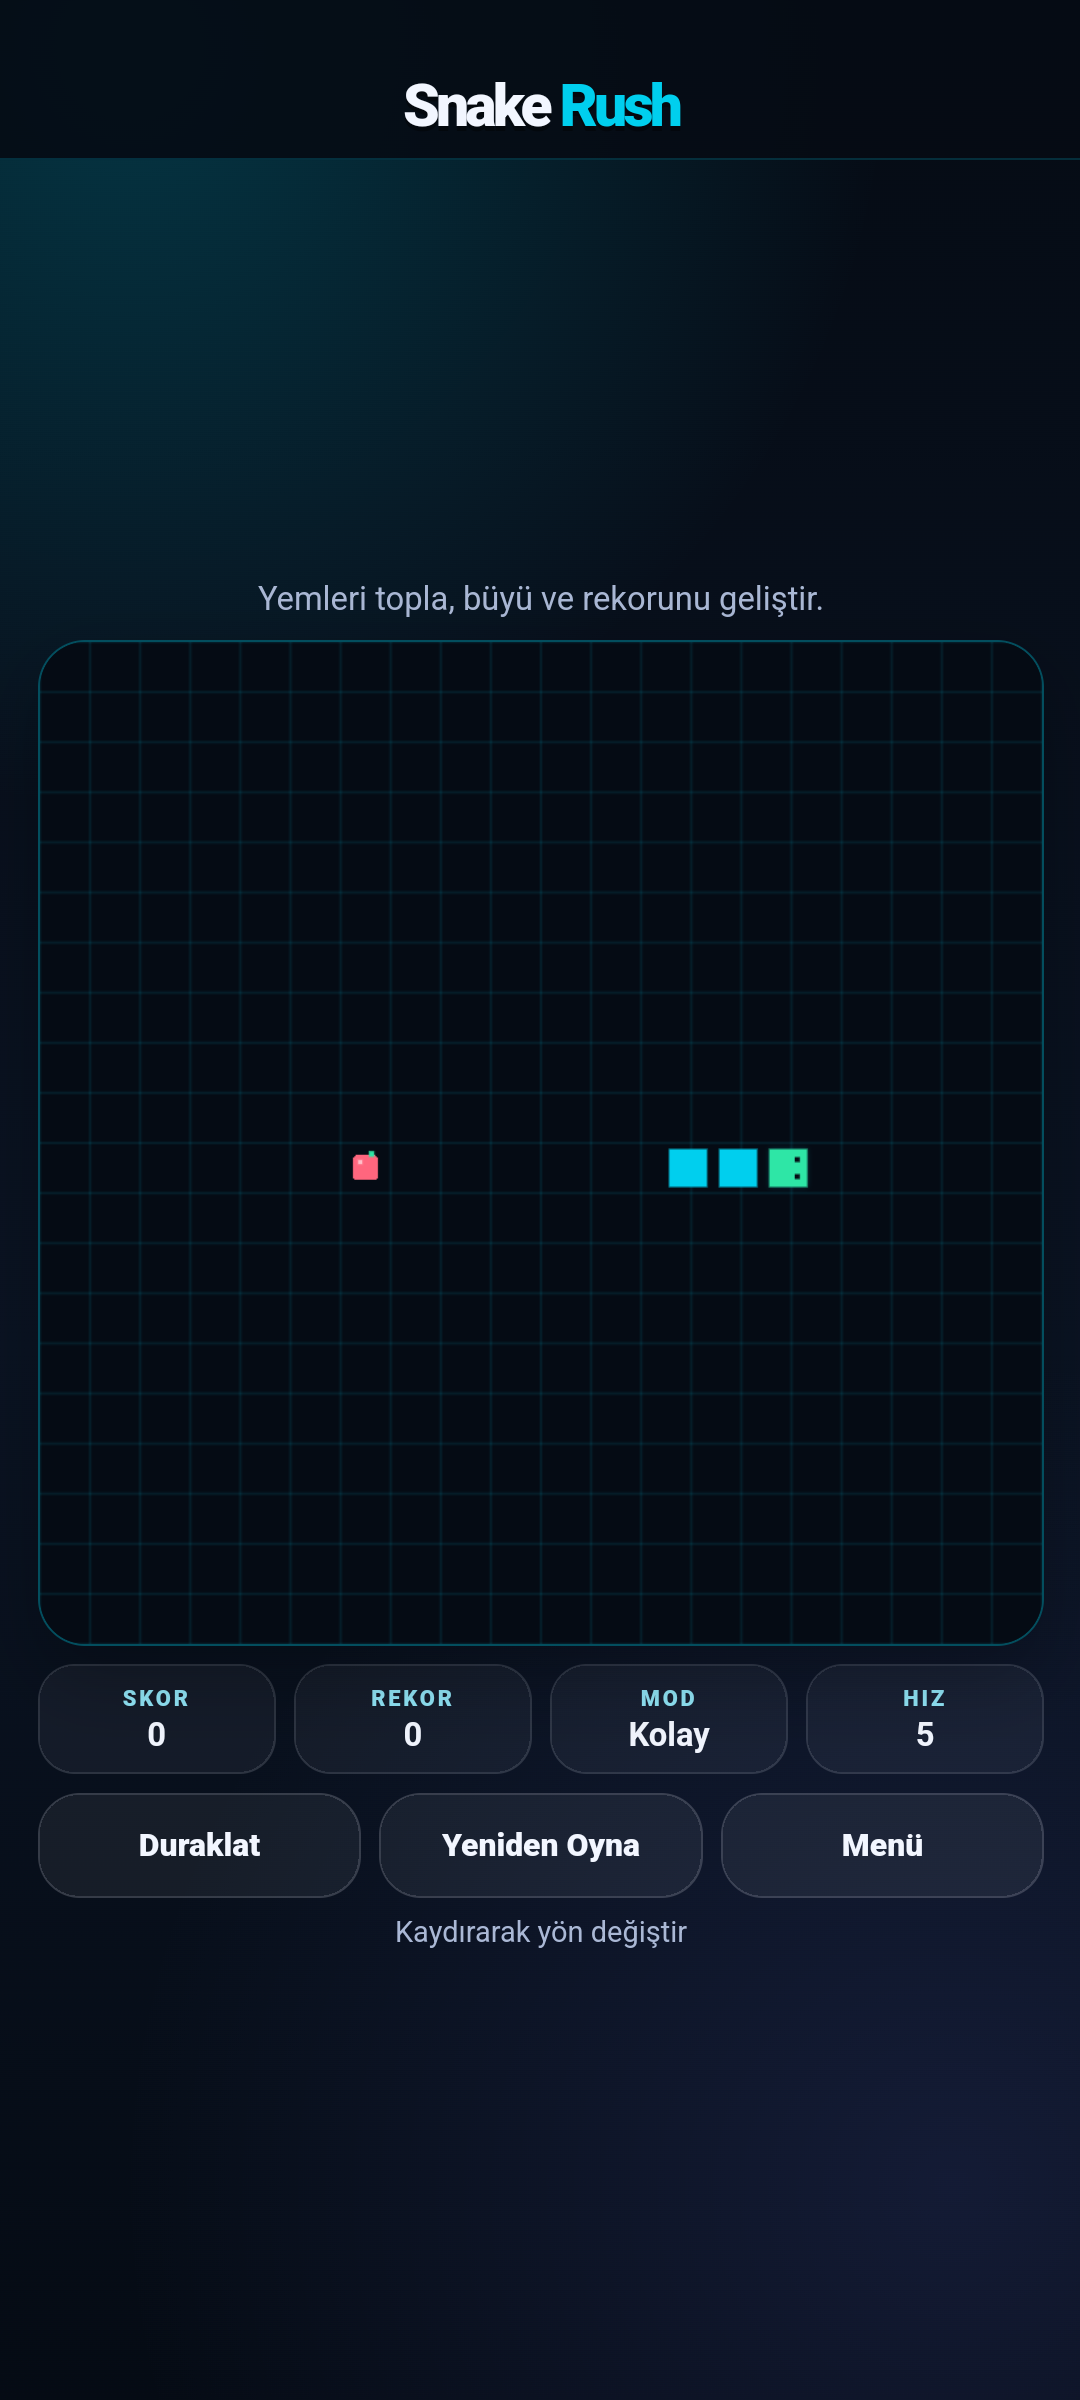
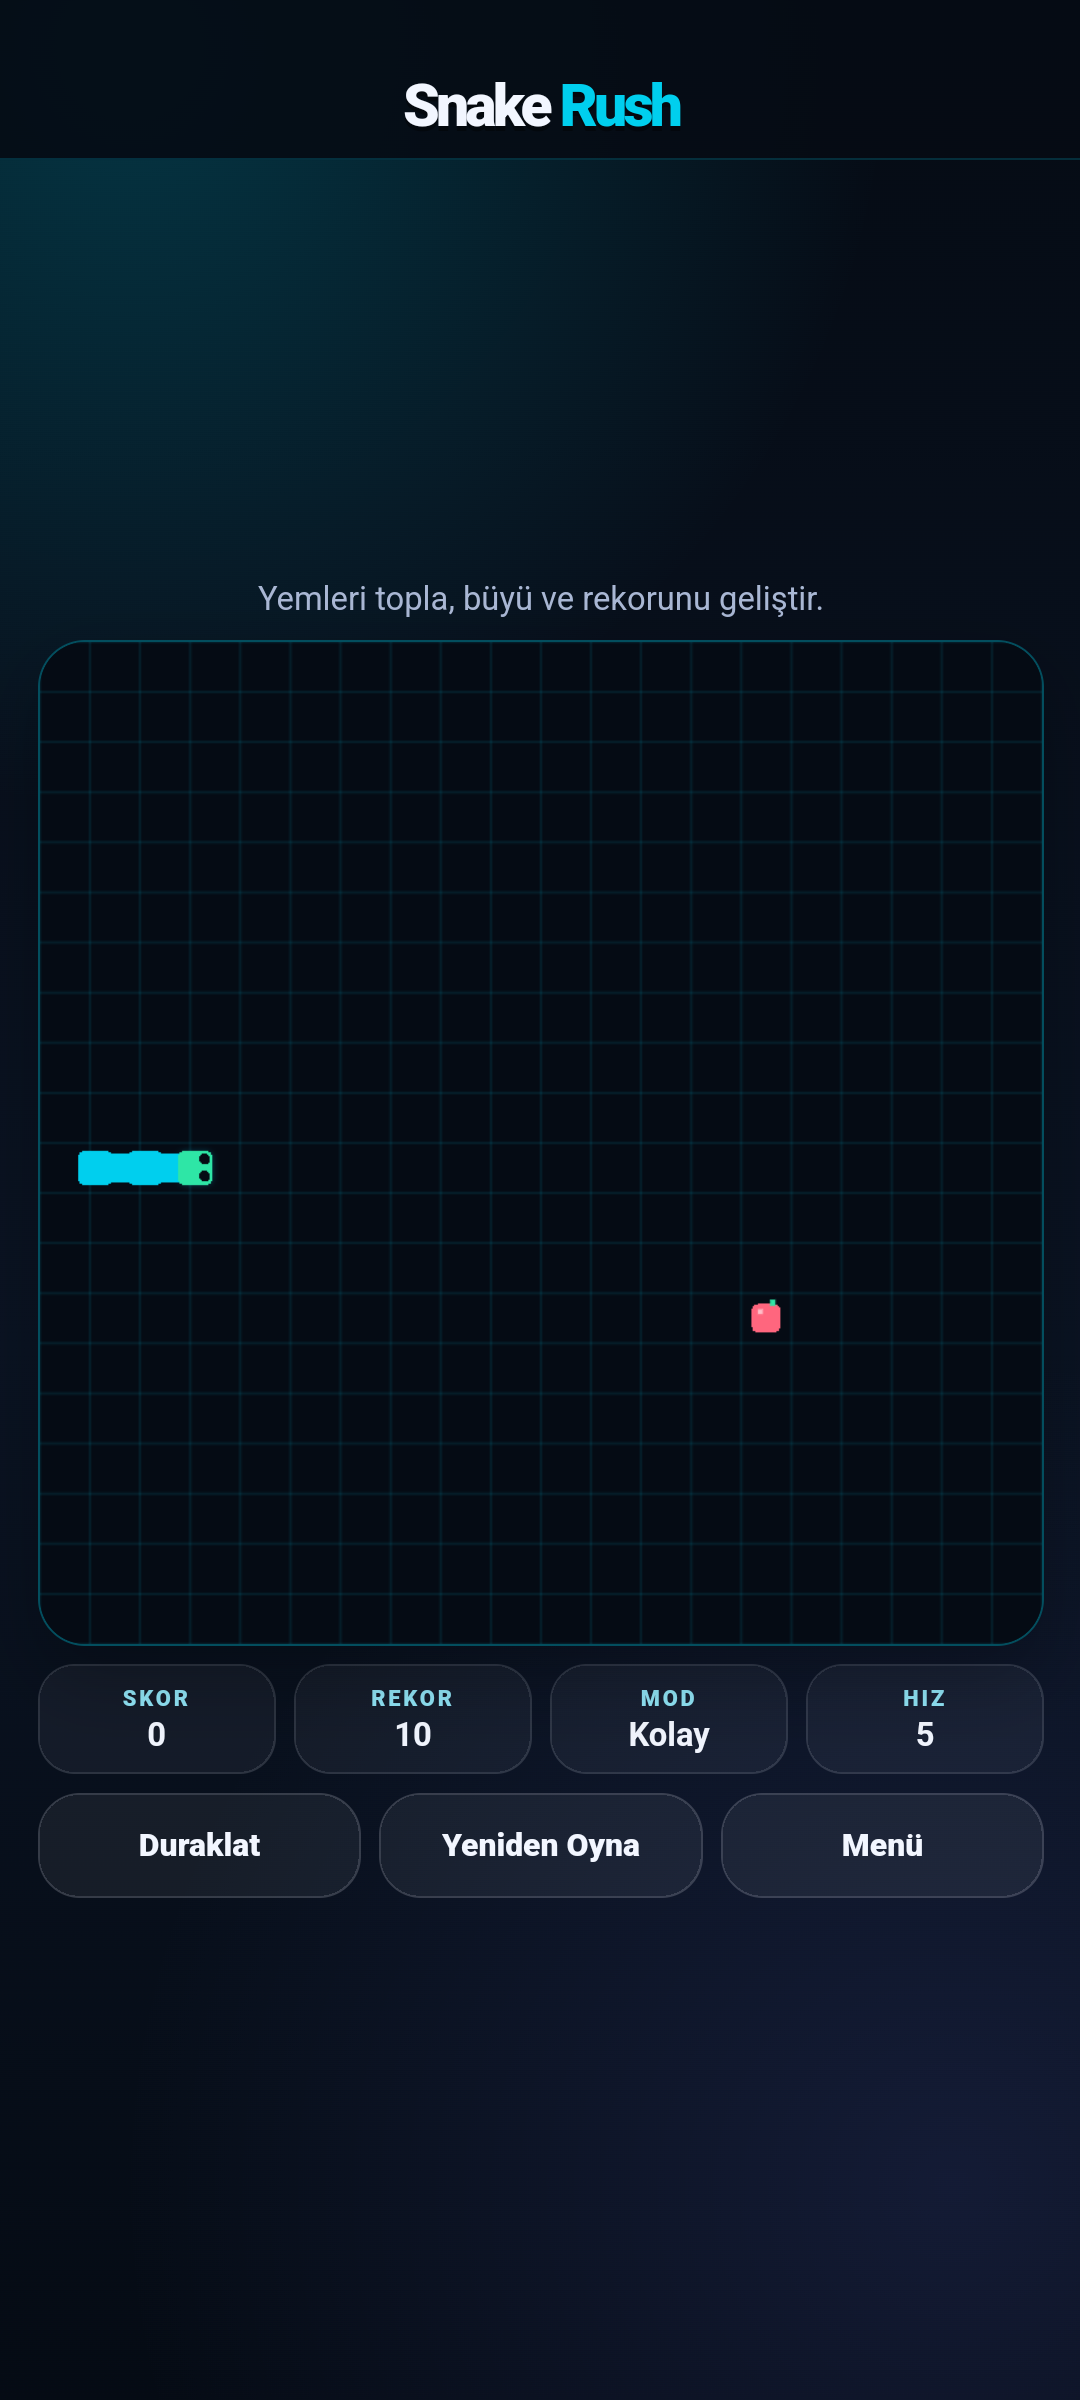
release: publish Snake Rush v1.0.1

diff --git a/android/app/src/main/assets/www/app.js b/android/app/src/main/assets/www/app.js
@@ -606,11 +606,39 @@
     ctx.fillRect(x + size * 0.2, y + size * 0.18, Math.max(1.5, size * 0.17), Math.max(1.5, size * 0.17));
   }
 
+  function unwrapNear(value, anchor, limit) {
+    let result = value;
+    if (mode === 'easy') {
+      if (result - anchor > limit / 2) result -= limit;
+      if (result - anchor < -limit / 2) result += limit;
+    }
+    return result;
+  }
+
   function drawSnake(alpha) {
     const visual = visualSnake(alpha);
     if (!visual.length) return;
-    ctx.imageSmoothingEnabled = false;
-    const segmentSize = Math.max(6, cell * 0.76);
+    const center = point => ({x: offsetX + (point.x + 0.5) * cell, y: offsetY + (point.y + 0.5) * cell});
+    ctx.lineCap = 'round';
+    ctx.lineJoin = 'round';
+    ctx.lineWidth = Math.max(5, cell * 0.58);
+    ctx.strokeStyle = canvasPalette.snake;
+    for (let index = 1; index < visual.length; index++) {
+      const previous = visual[index - 1];
+      const current = {
+        x: unwrapNear(visual[index].x, previous.x, cols),
+        y: unwrapNear(visual[index].y, previous.y, rows)
+      };
+      if (Math.abs(current.x - previous.x) > 1.65 || Math.abs(current.y - previous.y) > 1.65) continue;
+      const a = center(previous);
+      const b = center(current);
+      ctx.beginPath();
+      ctx.moveTo(a.x, a.y);
+      ctx.lineTo(b.x, b.y);
+      ctx.stroke();
+    }
+
+    const segmentSize = Math.max(6, cell * 0.7);
     const pad = (cell - segmentSize) / 2;
     for (let index = visual.length - 1; index >= 0; index--) {
       const segment = visual[index];
@@ -619,14 +647,15 @@
       ctx.fillStyle = index === 0 ? canvasPalette.head : canvasPalette.snake;
       if (index === 0) {
         ctx.shadowColor = canvasPalette.glow;
-        ctx.shadowBlur = Math.min(5, cell * 0.2);
+        ctx.shadowBlur = Math.min(6, cell * 0.25);
       }
-      ctx.fillRect(x, y, segmentSize, segmentSize);
+      roundedRectPath(x, y, segmentSize, Math.max(2, cell * 0.18));
+      ctx.fill();
       ctx.shadowBlur = 0;
     }
 
     const head = visual[0];
-    const eyeSize = Math.max(1.5, cell * 0.1);
+    const eyeSize = Math.max(1.5, cell * 0.11);
     const headCenterX = offsetX + (head.x + 0.5) * cell;
     const headCenterY = offsetY + (head.y + 0.5) * cell;
     const sideX = direction.y * cell * 0.17;
@@ -634,8 +663,10 @@
     const forwardX = direction.x * cell * 0.18;
     const forwardY = direction.y * cell * 0.18;
     ctx.fillStyle = canvasPalette.background;
-    ctx.fillRect(headCenterX + forwardX + sideX - eyeSize / 2, headCenterY + forwardY + sideY - eyeSize / 2, eyeSize, eyeSize);
-    ctx.fillRect(headCenterX + forwardX - sideX - eyeSize / 2, headCenterY + forwardY - sideY - eyeSize / 2, eyeSize, eyeSize);
+    ctx.beginPath();
+    ctx.arc(headCenterX + forwardX + sideX, headCenterY + forwardY + sideY, eyeSize, 0, Math.PI * 2);
+    ctx.arc(headCenterX + forwardX - sideX, headCenterY + forwardY - sideY, eyeSize, 0, Math.PI * 2);
+    ctx.fill();
   }
 
   function draw(alpha = 1, now = performance.now()) {

diff --git a/README.md b/README.md
@@ -5,11 +5,11 @@ Klasik kare piksel yılan görünümünü koruyan; akıcı hareket, dört neon t
 **GHC STUDIO**<br>
 Geliştirici: **Görkem H.**
 
-[Canlı Oyun](https://gorkemhc.github.io/SnakeRush/) · [APK İndir](https://github.com/gorkemhc/SnakeRush/releases/download/v1.0.0/Snake-Rush.apk)
+[Canlı Oyun](https://gorkemhc.github.io/SnakeRush/) · [APK İndir](https://github.com/gorkemhc/SnakeRush/releases/download/v1.0.1/Snake-Rush.apk)
 
 ## Özellikler
 
-- Eski tarz, birbirinden ayrı kare gövde segmentleri ve gözlü kare yılan başı
+- Eski tarz, birbirine bağlı yuvarlatılmış gövde segmentleri ve dairesel gözlü yılan başı
 - Sabit zaman adımlı oyun mantığı ve `requestAnimationFrame` tabanlı görsel interpolasyon
 - Neon Mavi, Neon Mor, Neon Kırmızı ve Neon Yeşil temaları
 - Kalıcı tema, mod, hız, ses, titreşim ve kontrol tercihleri
@@ -25,7 +25,7 @@ Oyunun web veya Android arayüzünde indirme düğmesi bulunmaz. APK yalnızca b
 
 | Ana menü | Ayarlar | Oynanış |
 | --- | --- | --- |
-| ![Snake Rush ana menü](test-screenshots/02-snake-rush-main-menu.png) | ![Snake Rush ayarlar](test-screenshots/08-snake-rush-settings.png) | ![Snake Rush kare segmentli oynanış](test-screenshots/07-snake-rush-gameplay.png) |
+| ![Snake Rush ana menü](test-screenshots/02-snake-rush-main-menu.png) | ![Snake Rush ayarlar](test-screenshots/08-snake-rush-settings.png) | ![Snake Rush oynanış](test-screenshots/07-snake-rush-gameplay.png) |
 
 | Neon Mor | Neon Kırmızı | Neon Yeşil |
 | --- | --- | --- |
@@ -66,7 +66,7 @@ $env:JAVA_HOME = "C:\Program Files\Android\Android Studio\jbr"
 
 Çıktı `android/app/build/outputs/apk/debug/app-debug.apk` konumunda oluşur.
 
-### v1.0.0 APK imza notu
+### v1.0.1 APK imza notu
 
 Projede üretim imzalama anahtarı bulunmadığından `Snake-Rush.apk`, Android debug sertifikasıyla imzalanmış kurulabilir test/dağıtım APK’sıdır. APK Signature Scheme v1 ve v2 doğrulaması başarılıdır. Mağaza dağıtımından önce geliştiricinin kendi güvenli üretim anahtarıyla imzalanmalıdır; depoda keystore veya parola tutulmaz.
 
@@ -76,7 +76,7 @@ Projede üretim imzalama anahtarı bulunmadığından `Snake-Rush.apk`, Android 
 - Android 16 / API 36
 - Google APIs, Intel x86_64, normal sistem görüntüsü
 - `adb` durumu: `device`
-- Uygulama sürümü: `1.0.0`
+- Uygulama sürümü: `1.0.1`
 
 Gerçek emülatör test kanıtları `test-screenshots` klasöründedir. Akıcı oynanış kaydı yerel teslimde `test-videos/snake-rush-smooth-gameplay.mp4` olarak üretilir; büyük test videoları Git geçmişine eklenmez.
 

diff --git a/RELEASE_NOTES.md b/RELEASE_NOTES.md
@@ -1,12 +1,13 @@
-# Snake Rush v1.0.0
+# Snake Rush v1.0.1
 
-Snake Rush’ın ilk Android sürümü.
+Snake Rush’ın güncellenmiş Android sürümü.
 
 - GHC STUDIO tarafından geliştirildi
 - Geliştirici: Görkem H.
 - Akıcı ve yumuşatılmış yılan hareketi
-- Korunan klasik kare piksel yılan görünümü
-- Birbirinden ayrı kare gövde segmentleri ve gözlü kare baş
+- Önceki sevilen yılan tasarımına geri dönüş
+- Birbirine bağlı yuvarlatılmış gövde segmentleri
+- Dairesel gözlü, yuvarlatılmış ve parıltılı kafa
 - Neon Mavi, Neon Mor, Neon Kırmızı ve Neon Yeşil temaları
 - Dokunmatik kaydırma ve ekran yön tuşları
 - Klavye kontrolleri
